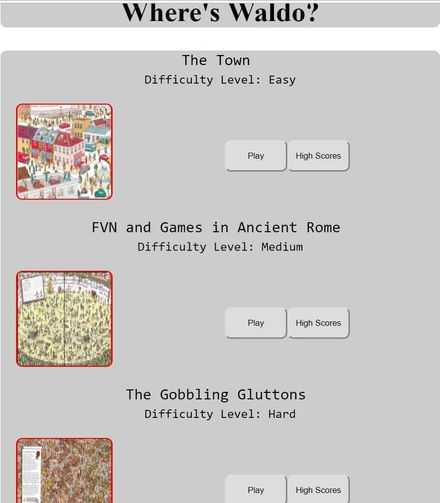
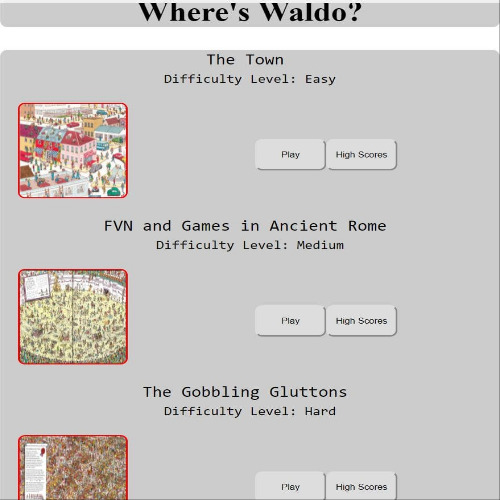
images now fit insde the parent element

diff --git a/styles.css b/styles.css
@@ -89,7 +89,7 @@ body {
   display: flex;
   flex-direction: column;
   border: 1px solid #000;
-  margin: 10px 0;
+  margin: 0 10px;
 }
 
 .work__projects__item:hover .work__projects__item__description {
